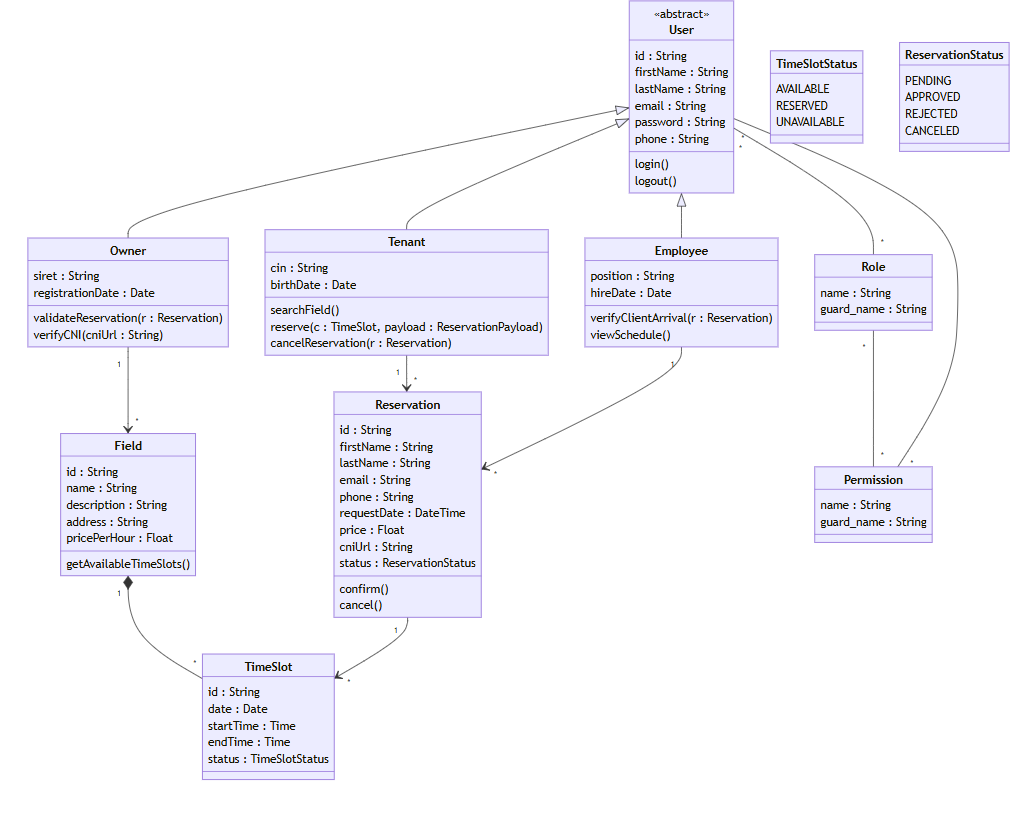
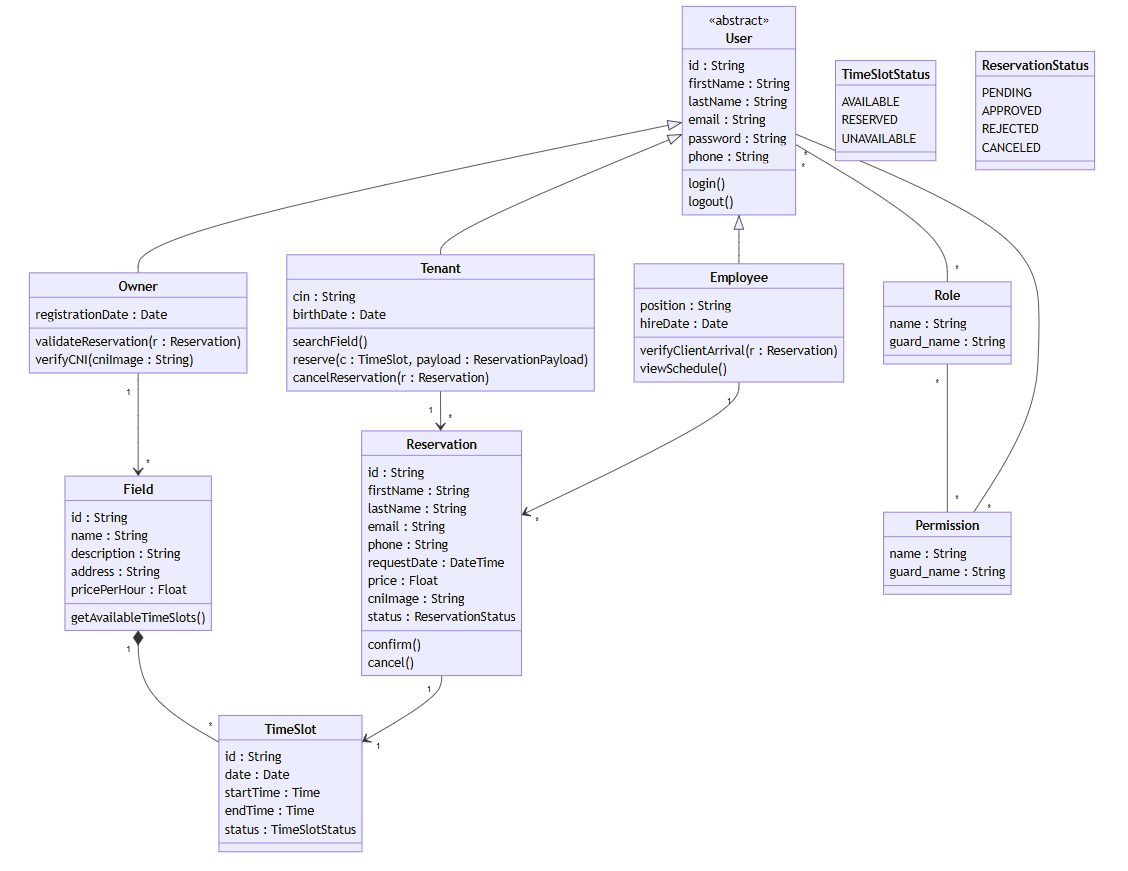
feat: Introduce core application models, CSV-based database seeding, and a class diagram for the application's data structure.

diff --git a/ProMatch/database/seeders/DatabaseSeeder.php b/ProMatch/database/seeders/DatabaseSeeder.php
@@ -3,23 +3,56 @@
 namespace Database\Seeders;
 
 use App\Models\User;
-use Illuminate\Database\Console\Seeds\WithoutModelEvents;
+use App\Models\Owner;
+use App\Models\Tenant;
+use App\Models\Employee;
+use App\Models\Field;
+use App\Models\TimeSlot;
+use App\Models\Reservation;
 use Illuminate\Database\Seeder;
 
 class DatabaseSeeder extends Seeder
 {
-    use WithoutModelEvents;
-
     /**
      * Seed the application's database.
      */
     public function run(): void
     {
-        // User::factory(10)->create();
+        $this->seedCsv(User::class, 'users.csv');
+        $this->seedCsv(Owner::class, 'owners.csv');
+        $this->seedCsv(Tenant::class, 'tenants.csv');
+        $this->seedCsv(Employee::class, 'employees.csv');
+        $this->seedCsv(Field::class, 'fields.csv');
+        $this->seedCsv(TimeSlot::class, 'time_slots.csv');
+        $this->seedCsv(Reservation::class, 'reservations.csv');
+    }
 
-        User::factory()->create([
-            'name' => 'Test User',
-            'email' => 'test@example.com',
-        ]);
+    private function seedCsv($modelClass, $filename)
+    {
+        $path = database_path("dataCSV/{$filename}");
+        if (!file_exists($path)) {
+            $this->command->error("File not found: {$path}");
+            return;
+        }
+
+        $file = fopen($path, 'r');
+        $headers = fgetcsv($file);
+
+        while (($row = fgetcsv($file)) !== false) {
+            if (empty(array_filter($row))) {
+                continue; // Skip empty rows
+            }
+            
+            $data = array_combine($headers, $row);
+            
+            if (isset($data['password'])) {
+                $data['password'] = bcrypt($data['password']);
+            }
+
+            $modelClass::create($data);
+        }
+
+        fclose($file);
+        $this->command->info("Seeded {$filename}");
     }
 }

diff --git a/ProMatch/app/Models/User.php b/ProMatch/app/Models/User.php
@@ -2,47 +2,29 @@
 
 namespace App\Models;
 
-// use Illuminate\Contracts\Auth\MustVerifyEmail;
-use Illuminate\Database\Eloquent\Factories\HasFactory;
 use Illuminate\Foundation\Auth\User as Authenticatable;
 use Illuminate\Notifications\Notifiable;
+use Spatie\Permission\Traits\HasRoles;
 
 class User extends Authenticatable
 {
-    /** @use HasFactory<\Database\Factories\UserFactory> */
-    use HasFactory, Notifiable;
+    use Notifiable, HasRoles;
 
-    /**
-     * The attributes that are mass assignable.
-     *
-     * @var list<string>
-     */
     protected $fillable = [
-        'name',
+        'first_name',
+        'last_name', 
         'email',
         'password',
+        'phone',
+        'type', // 'owner' | 'tenant' | 'employee'
     ];
 
-    /**
-     * The attributes that should be hidden for serialization.
-     *
-     * @var list<string>
-     */
     protected $hidden = [
         'password',
         'remember_token',
     ];
 
-    /**
-     * Get the attributes that should be cast.
-     *
-     * @return array<string, string>
-     */
-    protected function casts(): array
-    {
-        return [
-            'email_verified_at' => 'datetime',
-            'password' => 'hashed',
-        ];
-    }
+    public function owner() { return $this->hasOne(Owner::class); }
+    public function tenant() { return $this->hasOne(Tenant::class); }
+    public function employee() { return $this->hasOne(Employee::class); }
 }

diff --git a/ProMatch/app/Models/Reservation.php b/ProMatch/app/Models/Reservation.php
@@ -1,0 +1,27 @@
+<?php
+
+namespace App\Models;
+
+use Illuminate\Database\Eloquent\Model;
+
+class Reservation extends Model {
+    protected $fillable = [
+        'tenant_id', 'time_slot_id', 'employee_id',
+        'first_name', 'last_name', 'email', 'phone',
+        'request_date', 'price', 'cni_image', 'status'
+    ];
+
+    public function tenant() { return $this->belongsTo(Tenant::class); }
+    public function timeSlot() { return $this->belongsTo(TimeSlot::class); }
+    public function employee() { return $this->belongsTo(Employee::class); }
+
+    public function confirm() {
+        $this->update(['status' => 'APPROVED']);
+        $this->timeSlot->update(['status' => 'RESERVED']);
+    }
+
+    public function cancel() {
+        $this->update(['status' => 'CANCELED']);
+        $this->timeSlot->update(['status' => 'AVAILABLE']);
+    }
+}

diff --git a/ProMatch/app/Models/Tenant.php b/ProMatch/app/Models/Tenant.php
@@ -1,0 +1,29 @@
+<?php
+
+namespace App\Models;
+
+use Illuminate\Database\Eloquent\Model;
+
+class Tenant extends Model {
+    protected $fillable = ['user_id', 'cin', 'birth_date'];
+
+    public function user() { return $this->belongsTo(User::class); }
+    public function reservations() { return $this->hasMany(Reservation::class); }
+
+    public function searchField() {
+        return Field::with('timeSlots')->get();
+    }
+
+    public function reserve(TimeSlot $slot, array $payload): Reservation {
+        return Reservation::create([
+            'tenant_id'    => $this->id,
+            'time_slot_id' => $slot->id,
+            'request_date' => now(),
+            ...$payload
+        ]);
+    }
+
+    public function cancelReservation(Reservation $r) {
+        $r->cancel();
+    }
+}

diff --git a/ProMatch/app/Models/Owner.php b/ProMatch/app/Models/Owner.php
@@ -1,0 +1,27 @@
+<?php
+
+namespace App\Models;
+
+use Illuminate\Database\Eloquent\Model;
+
+class Owner extends Model {
+    protected $fillable = ['user_id', 'registration_date'];
+
+    public function user() { return $this->belongsTo(User::class); }
+    public function fields() { return $this->hasMany(Field::class); }
+
+    public function reservations() {
+        return Reservation::whereHas('timeSlot.field', function ($query) {
+            $query->where('owner_id', $this->id);
+        });
+    }
+
+    public function validateReservation(Reservation $r) {
+        $r->confirm();
+    }
+
+    public function verifyCNI(string $cniImage): bool {
+        // CNI verification logic
+        return true;
+    }
+}

diff --git a/ProMatch/app/Models/Field.php b/ProMatch/app/Models/Field.php
@@ -1,0 +1,17 @@
+<?php
+
+namespace App\Models;
+
+use Illuminate\Database\Eloquent\Model;
+
+class Field extends Model {
+    protected $fillable = ['owner_id', 'name', 'description', 'address', 'price_per_hour'];
+
+    public function owner() { return $this->belongsTo(Owner::class); }
+    public function timeSlots() { return $this->hasMany(TimeSlot::class); }
+    public function reservations() { return $this->hasManyThrough(Reservation::class, TimeSlot::class); }
+
+    public function getAvailableTimeSlots() {
+        return $this->timeSlots()->where('status', 'AVAILABLE')->get();
+    }
+}

diff --git a/ProMatch/app/Models/Employee.php b/ProMatch/app/Models/Employee.php
@@ -1,0 +1,21 @@
+<?php
+
+namespace App\Models;
+
+use Illuminate\Database\Eloquent\Model;
+
+class Employee extends Model {
+    protected $fillable = ['user_id', 'position', 'hire_date'];
+
+    public function user() { return $this->belongsTo(User::class); }
+    public function reservations() { return $this->hasMany(Reservation::class); }
+
+    public function verifyClientArrival(Reservation $r) {
+        $r->update(['status' => 'APPROVED']);
+    }
+
+    public function viewSchedule() {
+        return $this->reservations()->with('timeSlot')->get();
+    }
+}
+

diff --git a/ProMatch/app/Models/TimeSlot.php b/ProMatch/app/Models/TimeSlot.php
@@ -1,0 +1,12 @@
+<?php
+
+namespace App\Models;
+
+use Illuminate\Database\Eloquent\Model;
+
+class TimeSlot extends Model {
+    protected $fillable = ['field_id', 'date', 'start_time', 'end_time', 'status'];
+
+    public function field() { return $this->belongsTo(Field::class); }
+    public function reservations() { return $this->hasMany(Reservation::class); }
+}
